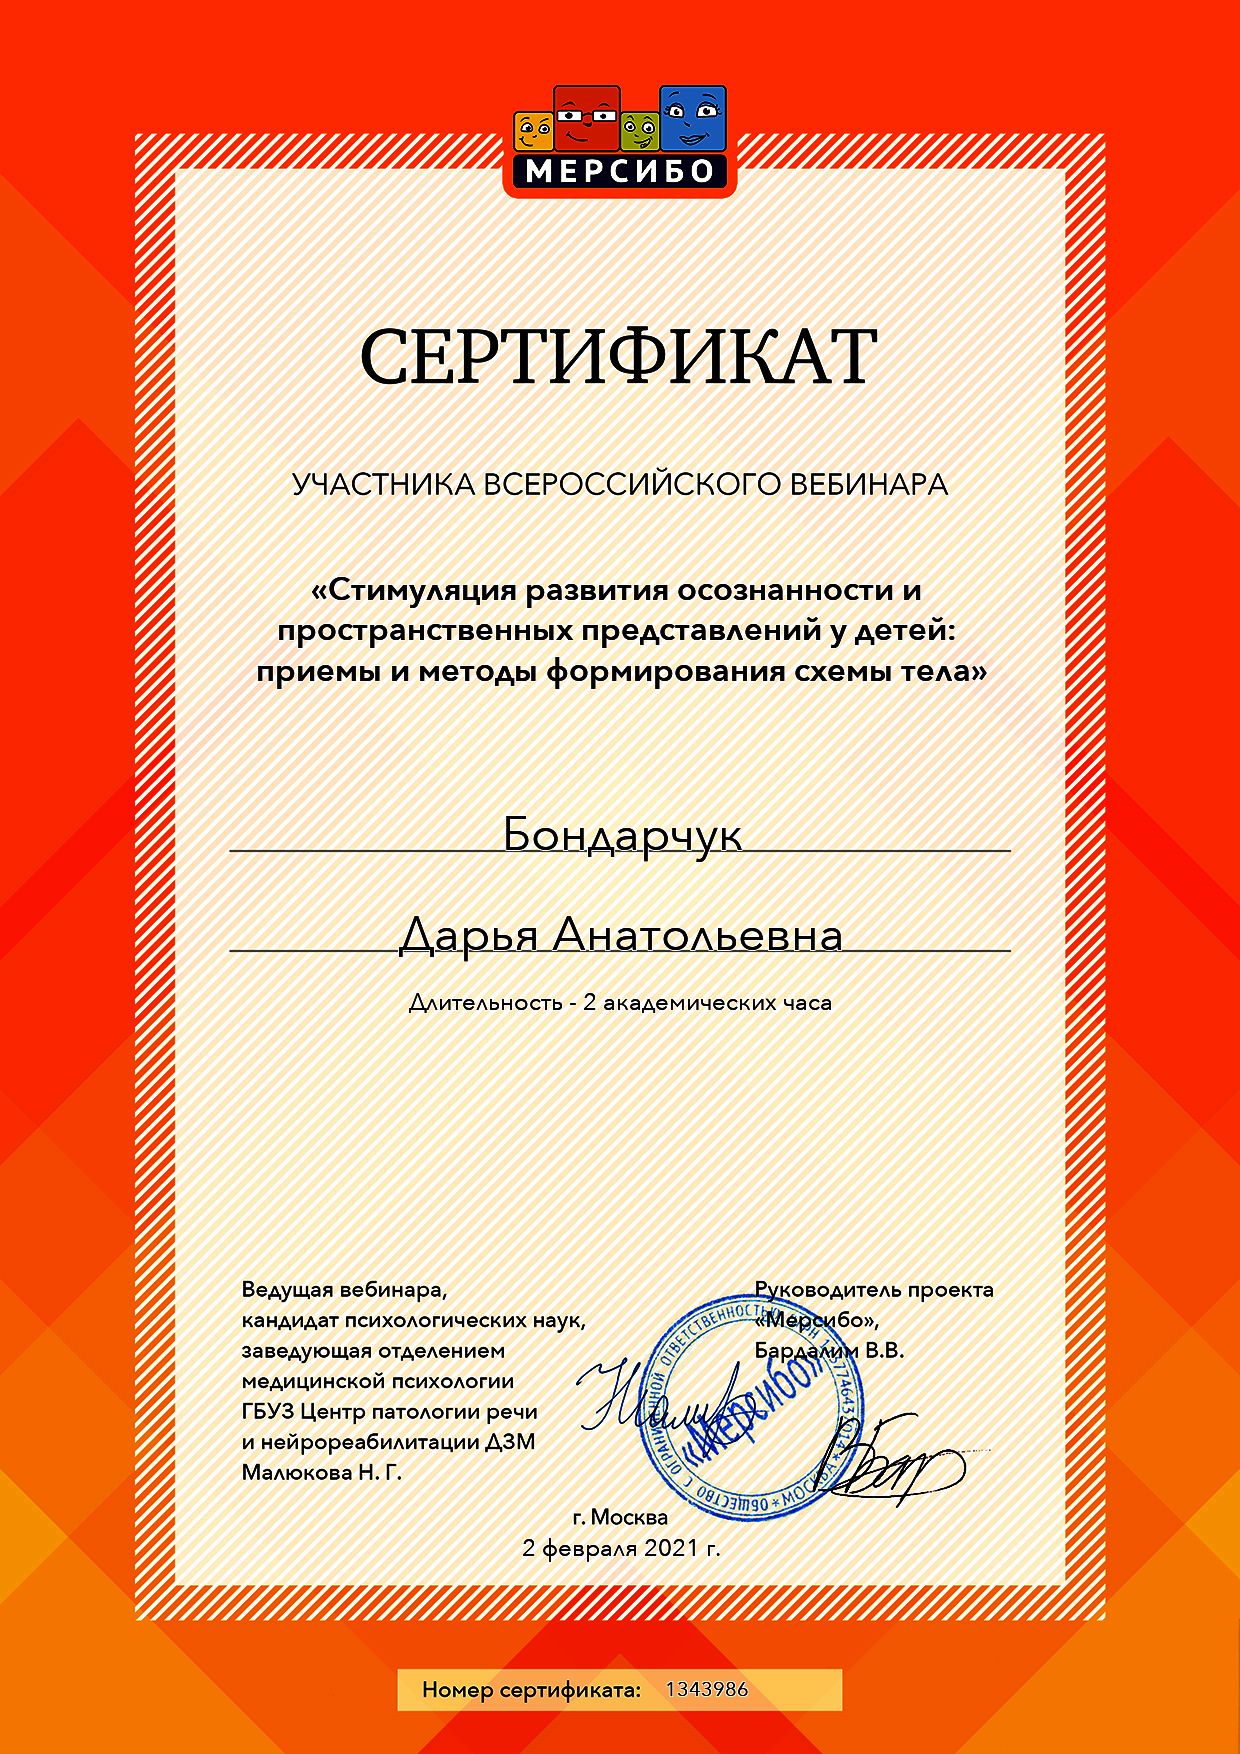
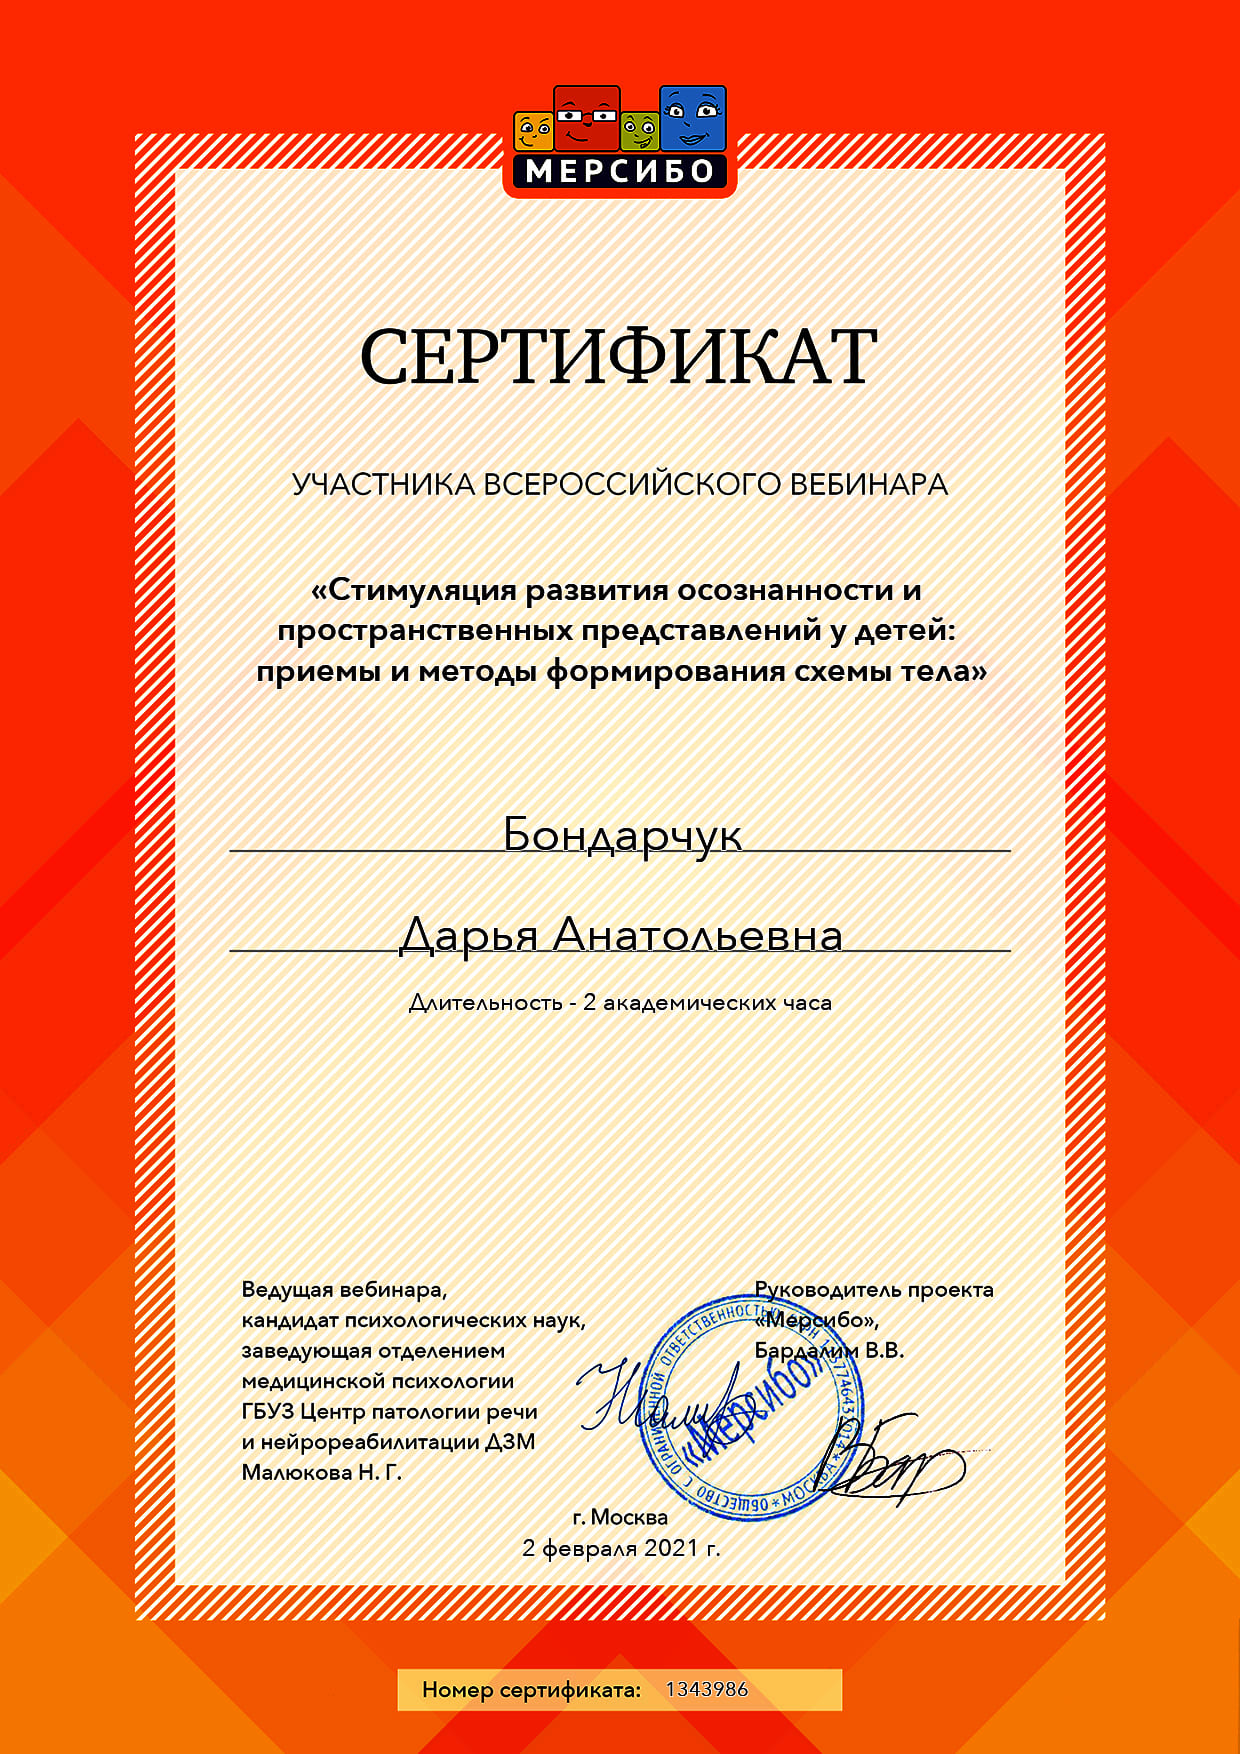
compress image, add background

diff --git a/src/assets/imagePaths.js b/src/assets/imagePaths.js
@@ -1,151 +1,188 @@
 const imagePaths = [
   {
     id: 1,
-    path: '/achievements/21.jpg',
+    path: '/achievements/compress/21.jpg',
+    originalFilePath: '/achievements/21.jpg',
   },
   {
     id: 2,
-    path: '/achievements/26.png',
+    path: '/achievements/compress/26.jpg',
+    originalFilePath: '/achievements/26.jpg',
   },
   {
     id: 3,
-    path: '/achievements/27.png',
+    path: '/achievements/compress/27.jpg',
+    originalFilePath: '/achievements/27.jpg',
   },
   {
     id: 4,
-    path: '/achievements/28.png',
+    path: '/achievements/compress/28.jpg',
+    originalFilePath: '/achievements/28.jpg',
   },
   {
     id: 5,
-    path: '/achievements/29.jpeg',
+    path: '/achievements/compress/29.jpeg',
+    originalFilePath: '/achievements/29.jpeg',
   },
   {
     id: 6,
-    path: '/achievements/30.jpg',
+    path: '/achievements/compress/30.jpg',
+    originalFilePath: '/achievements/30.jpg',
   },
   {
     id: 7,
-    path: '/achievements/31.png',
+    path: '/achievements/compress/31.jpg',
+    originalFilePath: '/achievements/31.jpg',
   },
   {
     id: 8,
-    path: '/achievements/32.png',
+    path: '/achievements/compress/32.jpg',
+    originalFilePath: '/achievements/32.jpg',
   },
   {
     id: 9,
-    path: '/achievements/33.jpg',
+    path: '/achievements/compress/33.jpg',
+    originalFilePath: '/achievements/33.jpg',
   },
   {
     id: 10,
-    path: '/achievements/34.png',
+    path: '/achievements/compress/34.jpg',
+    originalFilePath: '/achievements/34.jpg',
   },
   {
     id: 11,
-    path: '/achievements/36.png',
+    path: '/achievements/compress/36.jpg',
+    originalFilePath: '/achievements/36.jpg',
   },
   {
     id: 12,
-    path: '/achievements/37.png',
+    path: '/achievements/compress/37.jpg',
+    originalFilePath: '/achievements/37.jpg',
   },
   {
     id: 13,
-    path: '/achievements/38.png',
+    path: '/achievements/compress/38.jpg',
+    originalFilePath: '/achievements/38.jpg',
   },
   {
     id: 14,
-    path: '/achievements/35.jpg',
+    path: '/achievements/compress/35.jpg',
+    originalFilePath: '/achievements/35.jpg',
   },
   {
     id: 15,
-    path: '/achievements/39.png',
+    path: '/achievements/compress/39.jpg',
+    originalFilePath: '/achievements/39.jpg',
   },
   {
     id: 16,
-    path: '/achievements/40.jpg',
+    path: '/achievements/compress/40.jpg',
+    originalFilePath: '/achievements/40.jpg',
   },
   {
     id: 17,
-    path: '/achievements/41.png',
+    path: '/achievements/compress/41.jpg',
+    originalFilePath: '/achievements/41.jpg',
   },
   {
     id: 18,
-    path: '/achievements/42.png',
+    path: '/achievements/compress/42.jpg',
+    originalFilePath: '/achievements/42.jpg',
   },
   {
     id: 19,
-    path: '/achievements/43.png',
+    path: '/achievements/compress/43.jpg',
+    originalFilePath: '/achievements/43.jpg',
   },
   {
     id: 20,
-    path: '/achievements/44.png',
+    path: '/achievements/compress/44.jpg',
+    originalFilePath: '/achievements/44.jpg',
   },
   {
     id: 21,
-    path: '/achievements/45.png',
+    path: '/achievements/compress/45.jpg',
+    originalFilePath: '/achievements/45.jpg',
   },
   {
     id: 22,
-    path: '/achievements/46.png',
+    path: '/achievements/compress/46.jpg',
+    originalFilePath: '/achievements/46.jpg',
   },
   {
     id: 23,
-    path: '/achievements/47.png',
+    path: '/achievements/compress/47.jpg',
+    originalFilePath: '/achievements/47.jpg',
   },
   {
     id: 24,
-    path: '/achievements/48.png',
+    path: '/achievements/compress/48.jpg',
+    originalFilePath: '/achievements/48.jpg',
   },
   {
     id: 25,
-    path: '/achievements/49.jpg',
+    path: '/achievements/compress/49.jpg',
+    originalFilePath: '/achievements/49.jpg',
   },
   {
     id: 26,
-    path: '/achievements/50.jpg',
+    path: '/achievements/compress/50.jpg',
+    originalFilePath: '/achievements/50.jpg',
   },
   {
     id: 27,
-    path: '/achievements/51.png',
+    path: '/achievements/compress/51.jpg',
+    originalFilePath: '/achievements/51.jpg',
   },
   {
     id: 28,
-    path: '/achievements/52.png',
+    path: '/achievements/compress/52.jpg',
+    originalFilePath: '/achievements/52.jpg',
   },
   {
     id: 29,
-    path: '/achievements/53.jpg',
+    path: '/achievements/compress/53.jpg',
+    originalFilePath: '/achievements/53.jpg',
   },
   {
     id: 30,
-    path: '/achievements/54.jpg',
+    path: '/achievements/compress/54.jpg',
+    originalFilePath: '/achievements/54.jpg',
   },
   {
     id: 31,
-    path: '/achievements/55.png',
+    path: '/achievements/compress/55.jpg',
+    originalFilePath: '/achievements/55.jpg',
   },
   {
     id: 32,
-    path: '/achievements/56.png',
+    path: '/achievements/compress/56.jpg',
+    originalFilePath: '/achievements/56.jpg',
   },
   {
     id: 33,
-    path: '/achievements/57.png',
+    path: '/achievements/compress/57.jpg',
+    originalFilePath: '/achievements/57.jpg',
   },
   {
     id: 34,
-    path: '/achievements/58.jpg',
+    path: '/achievements/compress/58.jpg',
+    originalFilePath: '/achievements/58.jpg',
   },
   {
     id: 35,
-    path: '/achievements/59.png',
+    path: '/achievements/compress/59.jpg',
+    originalFilePath: '/achievements/59.jpg',
   },
   {
     id: 36,
-    path: '/achievements/60.jpeg',
+    path: '/achievements/compress/60.jpeg',
+    originalFilePath: '/achievements/60.jpeg',
   },
   {
     id: 37,
-    path: '/achievements/61.jpeg',
+    path: '/achievements/compress/61.jpeg',
+    originalFilePath: '/achievements/61.jpeg',
   },
 ];
 

diff --git a/src/components/AddEducation.js b/src/components/AddEducation.js
@@ -23,11 +23,11 @@ const programCards = programChunks.map((programChunk, i) => (
         result,
       }) => (
         <Card key={id} className="border-0">
-          <Card.Body style={{ background: '#E0FFFF' }}>
+          <Card.Body className="theme">
             <Card.Img src="yes2.svg" alt={description} style={{ height: 64, width: 64 }} />
             <Card.Text className="mt-3">{`${description} - ${hours} ${hours > 4 ? 'часов' : 'часа'}`}</Card.Text>
           </Card.Body>
-          <Card.Footer className="border-0" style={{ background: '#E0FFFF' }}>{`${year}г. ${result}.`}</Card.Footer>
+          <Card.Footer className="border-0 theme">{`${year}г. ${result}.`}</Card.Footer>
         </Card>
       ))}
     </CardGroup>
@@ -35,9 +35,9 @@ const programCards = programChunks.map((programChunk, i) => (
 ));
 
 const AddEducation = () => (
-  <Row className="justify-content-center align-content-center">
-    <Col xs={12} md={12} xxl={6}>
-      <Card id="addEducation" className="mt-5 text-center border-0" style={{ background: '#E0FFFF', minHeight: 550 }}>
+  <Row className="justify-content-center align-content-center m-0">
+    <Col xs={12} md={12} xxl={6} className="p-0">
+      <Card id="addEducation" className="mt-5 text-center border-0" style={{ minHeight: 550 }}>
         <Card.Body className="row">
           <Card.Text className="h1 my-3">Дополнительное образование</Card.Text>
           <Carousel variant="dark">

diff --git a/src/components/Achievements.js b/src/components/Achievements.js
@@ -17,17 +17,17 @@ const Achievements = () => {
   const [modalInfo, setModalInfo] = useState({ show: false, image: null });
   return (
     <>
-      <Row className="justify-content-center align-content-center">
-        <Col xs={12} md={12} xxl={6}>
+      <Row className="justify-content-center align-content-center m-0">
+        <Col xs={12} md={12} xxl={6} className="p-0">
           <Card id="achievements" className="text-center border-0 w-100">
             <Card.Body className="row">
               <Card.Text className="h1 my-5">Сертификаты и награды</Card.Text>
-              <Carousel variant="dark">
+              <Carousel variant="dark" slide>
                 {imagePathChunks.map((imagePathChunk, i) => (
                   // eslint-disable-next-line react/no-array-index-key
                   <Carousel.Item key={i} className="mb-5">
                     {imagePathChunk.map((imagePath) => (
-                      <Button key={imagePath.id} variant="light" onClick={() => setModalInfo({ show: true, image: imagePath.path })}>
+                      <Button key={imagePath.id} variant="light" onClick={() => setModalInfo({ show: true, image: imagePath.originalFilePath })}>
                         <Image className="mx-1" src={imagePath.path} style={{ maxWidth: 200 }} loading="lazy" />
                       </Button>
                     ))}

diff --git a/src/components/Publications.js b/src/components/Publications.js
@@ -15,7 +15,7 @@ const generatePublications = publicationsChunk.map((publicationChunk, i) => (
   <CardGroup key={i} className="mt-4 text-center">
     {publicationChunk.map((publication) => (
       <Card key={publication.id} className="border-0 mx-auto">
-        <Card.Body style={{ background: '#E0FFFF' }}>
+        <Card.Body className="theme">
           <a href={publication.path} target="_blank" rel="noreferrer">
             <Card.Img src="pdf.svg" style={{ maxWidth: 64 }} />
           </a>
@@ -27,9 +27,9 @@ const generatePublications = publicationsChunk.map((publicationChunk, i) => (
 ));
 
 const Publications = () => (
-  <Row className="justify-content-center align-content-center">
-    <Col xs={12} md={12} xxl={6}>
-      <Card id="publications" className="w-100 text-center border-0" style={{ background: '#E0FFFF' }}>
+  <Row className="justify-content-center align-content-center m-0">
+    <Col xs={12} md={12} xxl={6} className="p-0">
+      <Card id="publications" className="w-100 text-center border-0">
         <Card.Body className="row">
           <Card.Text className="h1 my-3">Публикации</Card.Text>
           <CardGroup className="mt-4">

diff --git a/src/components/Parents.js b/src/components/Parents.js
@@ -13,7 +13,7 @@ const generateParents = parentsChunks.map((parentChunk, i) => (
   // eslint-disable-next-line react/no-array-index-key
   <Row key={i} xs={1} md={2}>
     {parentChunk.map((parent) => (
-      <Card key={parent.id} className="border-0 mx-auto p-0">
+      <Card key={parent.id} className="border-0 mx-auto mt-4 p-0">
         <Card.Body>
           <a href={parent.path} target="_blank" rel="noreferrer">
             <Card.Img src="pdf.svg" style={{ maxWidth: 64 }} />
@@ -26,8 +26,8 @@ const generateParents = parentsChunks.map((parentChunk, i) => (
 ));
 
 const Parents = () => (
-  <Row className="justify-content-center align-content-center">
-    <Col xs={12} md={12} xxl={6}>
+  <Row className="justify-content-center align-content-center m-0">
+    <Col xs={12} md={12} xxl={6} className="p-0">
       <Card id="parents" className="mt-2 text-center border-0">
         <Card.Body className="row">
           <Card.Text className="h1 my-3">Родителям</Card.Text>

diff --git a/src/components/Navbar.js b/src/components/Navbar.js
@@ -2,10 +2,15 @@ import React from 'react';
 import { Container, Nav, Navbar } from 'react-bootstrap';
 
 const Navigation = () => (
-  <Navbar expand="lg" className="m-0" style={{ background: '#E0FFFF' }}>
+  <Navbar expand="lg" className="m-0 theme">
     <Container fluid>
-      <Navbar.Brand href="#"><h2>Бондарчук Дарья</h2></Navbar.Brand>
-      <Navbar.Collapse>
+      <Navbar.Brand href="#">
+        <h2>
+          <img src="book.svg" alt="Логотип" style={{ height: 50, width: 50 }} />
+        </h2>
+      </Navbar.Brand>
+      <Navbar.Toggle aria-controls="menu" />
+      <Navbar.Collapse id="menu">
         <Nav className="justify-content-center w-100 mx-auto">
           <Nav.Link href="#about"><h5>Обо мне</h5></Nav.Link>
           <Nav.Link href="#addEducation"><h5>Образование</h5></Nav.Link>

diff --git a/src/components/Me.js b/src/components/Me.js
@@ -8,9 +8,9 @@ import {
 } from 'react-bootstrap';
 
 const Me = () => (
-  <Row className="justify-content-center h-100">
-    <Col xs={12} md={12} xxl={6}>
-      <Card id="me" className="h-100 text-left border-0 w-100" style={{ background: '#E0FFFF' }}>
+  <Row className="justify-content-center h-100 m-0">
+    <Col xs={12} md={12} xxl={6} className="p-0">
+      <Card id="me" className="h-100 text-left border-0 w-100">
         <Card.Body className="row">
           <Col className="d-flex flex-column justify-content-center mx-5">
             <Card.Text className="h5">Сайт учителя-логопеда</Card.Text>

diff --git a/src/components/About.js b/src/components/About.js
@@ -8,8 +8,8 @@ import {
 } from 'react-bootstrap';
 
 const About = () => (
-  <Row className="justify-content-center align-content-center h-100">
-    <Col xs={12} md={12} xxl={6}>
+  <Row className="justify-content-center align-content-center h-100 m-0">
+    <Col xs={12} md={12} xxl={6} className="p-0">
       <Card id="about" className="h-100 mt-5 text-center border-0">
         <Card.Body className="row">
           <Card.Text className="h1">Обо мне</Card.Text>

diff --git a/src/App.js b/src/App.js
@@ -10,7 +10,7 @@ import Publications from './components/Publications';
 import Parents from './components/Parents';
 
 const App = () => (
-  <Container fluid className="w-100">
+  <Container fluid className="w-100" style={{ padding: 1 }}>
     <Navigation />
     <Me />
     <About />

diff --git a/src/App.css b/src/App.css
@@ -1,0 +1,14 @@
+.card-body {
+  padding: 0;
+  margin: 0;
+}
+
+#me,
+#addEducation,
+#publications {
+  background: #d9eaed;
+}
+
+.theme {
+  background: #d9eaed;
+}
